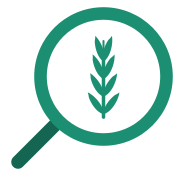
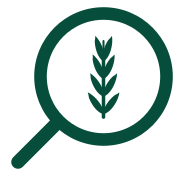
Add files via upload

Changed region(s): [[0.1667, 0.0278, 0.9722, 0.8333], [0.4722, 0.1944, 0.6667, 0.6667]]

diff --git a/index.html b/index.html
@@ -571,19 +571,19 @@
 <header>
   <div class="brand-row">
     <div class="brand-mark"><svg viewBox="150 130 400 400" xmlns="http://www.w3.org/2000/svg" role="img" aria-label="Logo EasyEat">
-<line x1="271" y1="409" x2="190" y2="490" stroke="#146652" stroke-width="30" stroke-linecap="round"/>
-<circle cx="380" cy="300" r="140" fill="#FFFFFF" stroke="#1C8F73" stroke-width="28"/>
+<line x1="271" y1="409" x2="190" y2="490" stroke="#F8E7C9" stroke-width="30" stroke-linecap="round"/>
+<circle cx="380" cy="300" r="140" fill="#FFFFFF" stroke="#F8E7C9" stroke-width="28"/>
 <g transform="translate(-114,-58.28) scale(1.3)">
-<line x1="380" y1="235" x2="380" y2="345" stroke="#1C8F73" stroke-width="6" stroke-linecap="round"/>
-<line x1="380" y1="215" x2="380" y2="235" stroke="#1C8F73" stroke-width="3.5" stroke-linecap="round"/>
-<g transform="translate(380,250) rotate(18)"><path d="M0,0 C7,-8 7,-24 4,-36 C3,-40 1.5,-44 0,-46 C-1.5,-40 -3,-40 -4,-36 C-7,-24 -7,-8 0,0 Z" fill="#1C8F73"/></g>
-<g transform="translate(380,250) rotate(-18)"><path d="M0,0 C7,-8 7,-24 4,-36 C3,-40 1.5,-44 0,-46 C-1.5,-40 -3,-40 -4,-36 C-7,-24 -7,-8 0,0 Z" fill="#1C8F73"/></g>
-<g transform="translate(380,280) rotate(24)"><path d="M0,0 C7,-8 7,-24 4,-36 C3,-40 1.5,-44 0,-46 C-1.5,-40 -3,-40 -4,-36 C-7,-24 -7,-8 0,0 Z" fill="#1C8F73"/></g>
-<g transform="translate(380,280) rotate(-24)"><path d="M0,0 C7,-8 7,-24 4,-36 C3,-40 1.5,-44 0,-46 C-1.5,-40 -3,-40 -4,-36 C-7,-24 -7,-8 0,0 Z" fill="#1C8F73"/></g>
-<g transform="translate(380,310) rotate(30)"><path d="M0,0 C7,-8 7,-24 4,-36 C3,-40 1.5,-44 0,-46 C-1.5,-40 -3,-40 -4,-36 C-7,-24 -7,-8 0,0 Z" fill="#1C8F73"/></g>
-<g transform="translate(380,310) rotate(-30)"><path d="M0,0 C7,-8 7,-24 4,-36 C3,-40 1.5,-44 0,-46 C-1.5,-40 -3,-40 -4,-36 C-7,-24 -7,-8 0,0 Z" fill="#1C8F73"/></g>
-<g transform="translate(380,340) rotate(36)"><path d="M0,0 C7,-8 7,-24 4,-36 C3,-40 1.5,-44 0,-46 C-1.5,-40 -3,-40 -4,-36 C-7,-24 -7,-8 0,0 Z" fill="#1C8F73"/></g>
-<g transform="translate(380,340) rotate(-36)"><path d="M0,0 C7,-8 7,-24 4,-36 C3,-40 1.5,-44 0,-46 C-1.5,-40 -3,-40 -4,-36 C-7,-24 -7,-8 0,0 Z" fill="#1C8F73"/></g>
+<line x1="380" y1="235" x2="380" y2="345" stroke="#064E3B" stroke-width="6" stroke-linecap="round"/>
+<line x1="380" y1="215" x2="380" y2="235" stroke="#064E3B" stroke-width="3.5" stroke-linecap="round"/>
+<g transform="translate(380,250) rotate(18)"><path d="M0,0 C7,-8 7,-24 4,-36 C3,-40 1.5,-44 0,-46 C-1.5,-40 -3,-40 -4,-36 C-7,-24 -7,-8 0,0 Z" fill="#064E3B"/></g>
+<g transform="translate(380,250) rotate(-18)"><path d="M0,0 C7,-8 7,-24 4,-36 C3,-40 1.5,-44 0,-46 C-1.5,-40 -3,-40 -4,-36 C-7,-24 -7,-8 0,0 Z" fill="#064E3B"/></g>
+<g transform="translate(380,280) rotate(24)"><path d="M0,0 C7,-8 7,-24 4,-36 C3,-40 1.5,-44 0,-46 C-1.5,-40 -3,-40 -4,-36 C-7,-24 -7,-8 0,0 Z" fill="#064E3B"/></g>
+<g transform="translate(380,280) rotate(-24)"><path d="M0,0 C7,-8 7,-24 4,-36 C3,-40 1.5,-44 0,-46 C-1.5,-40 -3,-40 -4,-36 C-7,-24 -7,-8 0,0 Z" fill="#064E3B"/></g>
+<g transform="translate(380,310) rotate(30)"><path d="M0,0 C7,-8 7,-24 4,-36 C3,-40 1.5,-44 0,-46 C-1.5,-40 -3,-40 -4,-36 C-7,-24 -7,-8 0,0 Z" fill="#064E3B"/></g>
+<g transform="translate(380,310) rotate(-30)"><path d="M0,0 C7,-8 7,-24 4,-36 C3,-40 1.5,-44 0,-46 C-1.5,-40 -3,-40 -4,-36 C-7,-24 -7,-8 0,0 Z" fill="#064E3B"/></g>
+<g transform="translate(380,340) rotate(36)"><path d="M0,0 C7,-8 7,-24 4,-36 C3,-40 1.5,-44 0,-46 C-1.5,-40 -3,-40 -4,-36 C-7,-24 -7,-8 0,0 Z" fill="#064E3B"/></g>
+<g transform="translate(380,340) rotate(-36)"><path d="M0,0 C7,-8 7,-24 4,-36 C3,-40 1.5,-44 0,-46 C-1.5,-40 -3,-40 -4,-36 C-7,-24 -7,-8 0,0 Z" fill="#064E3B"/></g>
 </g>
 </svg></div>
     <h1>EasyEat</h1>
